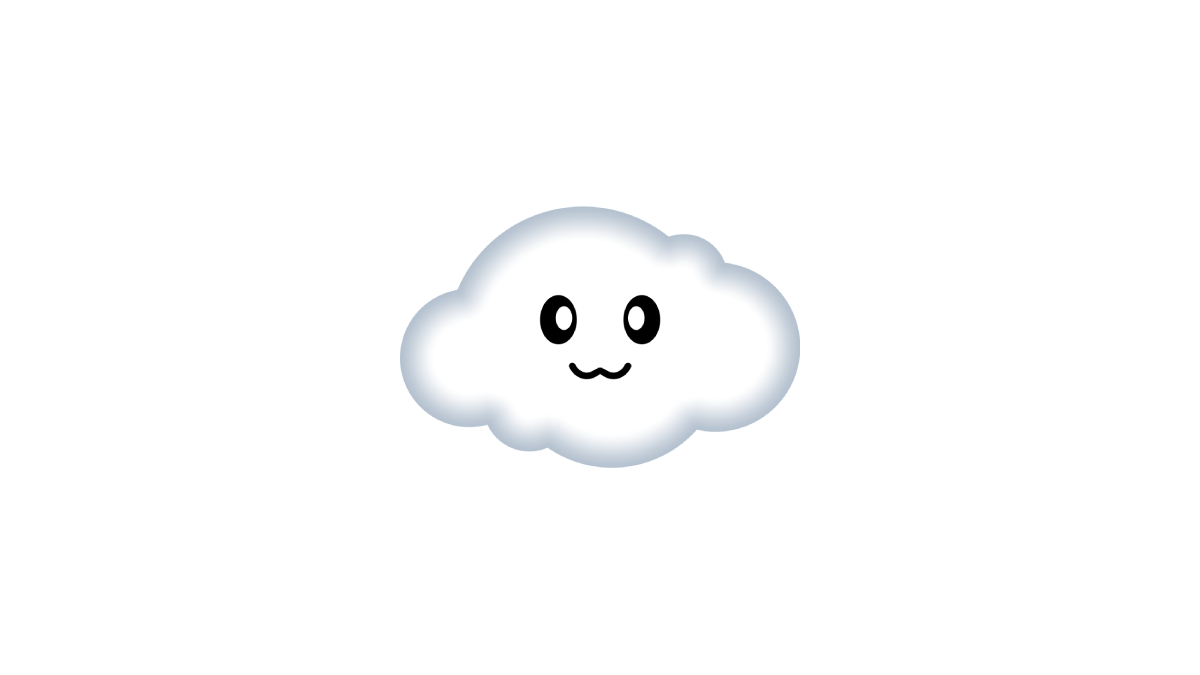
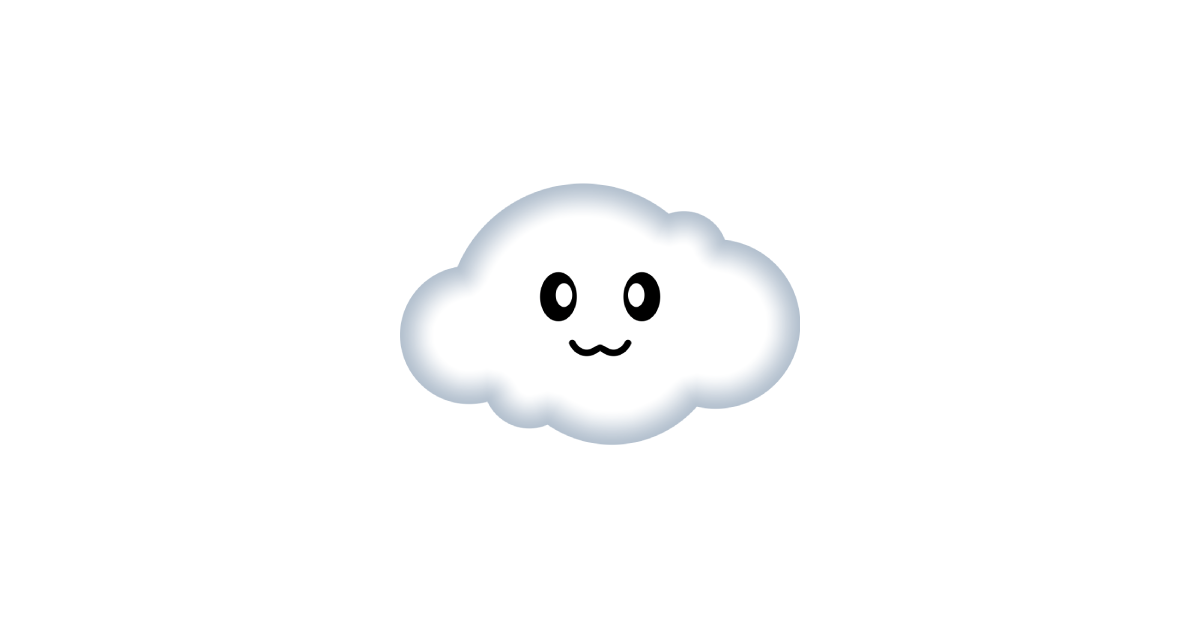
f

diff --git a/www/[lang].html b/www/[lang].html
@@ -47,6 +47,9 @@
   <link rel="alternate" href="/sv" hreflang="sv" />
   <link rel="alternate" href="/da" hreflang="da" />
   <meta property="og:image" content="/appflag.png" />
+  <meta property="og:image:width" content="1200" />
+  <meta property="og:image:height" content="630" />
+  <meta property="og:image:type" content="image/png" />
 </head>
 
 </html>

diff --git a/www/index.html b/www/index.html
@@ -47,6 +47,9 @@
   <link rel="alternate" href="/sv" hreflang="sv" />
   <link rel="alternate" href="/da" hreflang="da" />
   <meta property="og:image" content="/appflag.png" />
+  <meta property="og:image:width" content="1200" />
+  <meta property="og:image:height" content="630" />
+  <meta property="og:image:type" content="image/png" />
 </head>
 
 </html>
